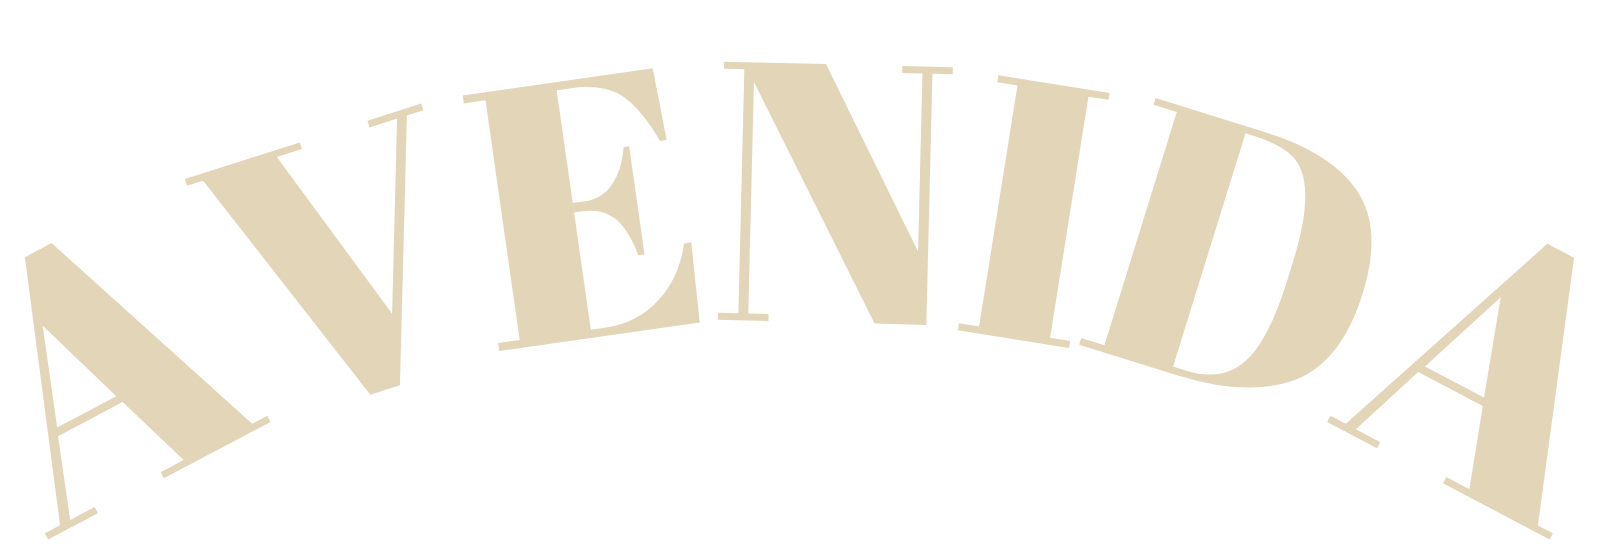
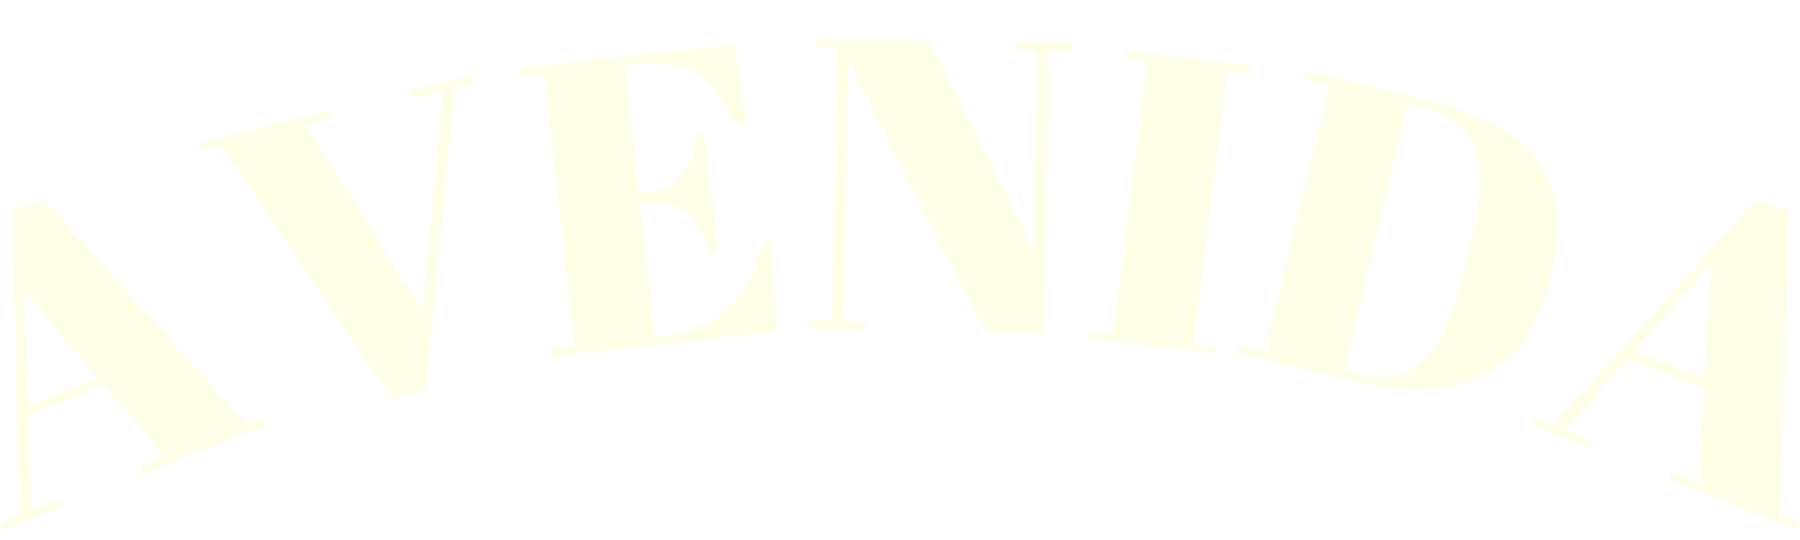
muitas alterações..

diff --git a/front/src/Login.tsx b/front/src/Login.tsx
@@ -1,6 +1,5 @@
 import { useForm } from "react-hook-form"
 import { useNavigate } from "react-router-dom";
-
 import { toast } from "sonner"
 import { useClienteStore } from "./context/ClienteContext"
 
@@ -10,54 +9,83 @@ type Inputs = {
     manter: boolean
 }
 
+const apiUrl = import.meta.env.VITE_API_URL
+
+
 export default function Login() {
     const { register, handleSubmit } = useForm<Inputs>()
     const { logaCliente } = useClienteStore()
 
     const navigate = useNavigate()
 
+    async function verificaLogin(data: Inputs) {
+        const response= await 
+        fetch(`${apiUrl}/clientes/login`, {
+            headers: {"Content-Type": "application/json"},
+            method: "POST",
+            body: JSON.stringify({ email: data.email, senha: data.senha })
+        })
+
+        if (response.status == 200) {
+            toast.success("Ok!")
+            const dados = await response.json()
+            logaCliente(dados)
+            if (data.manter) {
+                localStorage.setItem("clienteKey", dados.id)
+            } else {
+                if (localStorage.getItem("clienteKey")) {
+                    localStorage.removeItem("clienteKey")
+                }
+            }
+
+            navigate("/")
+        } else {
+            toast.error("Login ou senha incorretos")
+        }
+    }
+
     return (
         <>
-        <section className="bg-gray-50 dark:bg-gray-900">
-            <p style={{ height: 48 }}></p>
-            <div className="flex flex-col items-center px-6 py-8 mx-auto md:h-screen lg:py-0">
-                <div className="w-full bg-white rounded-lg shadow dark:border md:mt-0 sm:max-w-md xl:p-0 dark:bg-gray-800 dark:border-gray-700">
+        <section className="bg-[#FFFFE7] dark:bg-[#C33941]">
+            <p style={{ height: 110 }}></p>
+            <div className="flex flex-col items-center md:h-screen">
+                <div className="w-full flex flex-col items- rounded-lg  dark:border md:mt-0 sm:max-w-md xl:p-0 dark:bg-gray-800 dark:border-gray-700">
                     <div className="p-6 space-y-4 md:space-y-6 sm:p-8">
-                        <h1 className="text-xl font-bold leading-tight tracking-tight text-gray-900 md:text-2xl dark:text-white">
-                            Dados de Acesso do Cliente
+                        <h1 className="font-serif text-[#C33941] text-5xl">
+                            log in
                         </h1>
                         <form className="space-y-4 md:space-y-6" 
-                           onSubmit={handleSubmit()} >
+                           onSubmit={handleSubmit(verificaLogin)} >
                             <div>
-                                <label htmlFor="email" className="block mb-2 text-sm font-medium text-gray-900 dark:text-white">Seu e-mail</label>
+                                <label htmlFor="email" className="block mb-2 text-sm font-medium text-[#C33941] dark:text-white pl-2">e-mail</label>
                                 <input type="email" id="email" 
-                                       className="bg-gray-50 border border-gray-300 text-gray-900 rounded-lg focus:ring-primary-600 focus:border-primary-600 block w-full p-2.5 dark:bg-gray-700 dark:border-gray-600 dark:placeholder-gray-400 dark:text-white dark:focus:ring-blue-500 dark:focus:border-blue-500" 
+                                       className="bg-[#FFFFE7] border border-[#C33941] text-gray-900 rounded-lg focus:ring-primary-600 focus:border-primary-600 block w-full p-2.5 dark:bg-gray-700 dark:border-gray-600 dark:placeholder-gray-400 dark:text-white dark:focus:ring-blue-500 dark:focus:border-blue-500" 
                                        required 
                                        {...register("email")} />
                             </div>
                             <div>
-                                <label htmlFor="password" className="block mb-2 text-sm font-medium text-gray-900 dark:text-white">Senha de Acesso</label>
+                                <label htmlFor="password" className="block mb-2 text-sm font-medium text-[#C33941]  dark:text-white pl-2">senha</label>
                                 <input type="password" id="password" 
-                                       className="bg-gray-50 border border-gray-300 text-gray-900 rounded-lg focus:ring-primary-600 focus:border-primary-600 block w-full p-2.5 dark:bg-gray-700 dark:border-gray-600 dark:placeholder-gray-400 dark:text-white dark:focus:ring-blue-500 dark:focus:border-blue-500" 
+                                       className="bg-[#FFFFE7] border border-[#C33941] text-gray-900 rounded-lg focus:ring-primary-600 focus:border-primary-600 block w-full p-2.5 dark:bg-gray-700 dark:border-gray-600 dark:placeholder-gray-400 dark:text-white dark:focus:ring-blue-500 dark:focus:border-blue-500" 
                                        required 
                                        {...register("senha")} />
                             </div>
-                            <div className="flex items-center justify-between">
-                                <div className="flex items-start">
+                            <div className="flex items-center justify-between pl-2">
+                                <div className="flex items-start ">
                                     <div className="flex items-center h-5">
                                         <input id="remember" 
                                                aria-describedby="remember" type="checkbox" 
-                                               className="w-4 h-4 border border-gray-300 rounded bg-gray-50 focus:ring-3 focus:ring-primary-300 dark:bg-gray-700 dark:border-gray-600 dark:focus:ring-primary-600 dark:ring-offset-gray-800" 
+                                               className="w-4 h-4 border border-[#C33941] rounded bg-[#FFFFE7] focus:ring-3 focus:ring-primary-300 dark:bg-gray-700 dark:border-gray-600 dark:focus:ring-primary-600 dark:ring-offset-gray-800 cursor-pointer" 
                                                {...register("manter")} />
                                     </div>
                                     <div className="ml-3 text-sm">
-                                        <label htmlFor="remember" className="text-gray-500 dark:text-gray-300">Manter Conectado</label>
+                                        <label htmlFor="remember" className="text-gray-500 dark:text-gray-300">manter conectada :)</label>
                                     </div>
                                 </div>
-                                <a href="#" className="text-sm font-medium text-primary-600 hover:underline dark:text-primary-500">Esqueceu sua senha?</a>
+                                <a href="#" className="text-sm font-medium text-[#C33941] hover:underline dark:text-primary-500">esqueceu sua senha? :(</a>
                             </div>
-                            <button type="submit" className="w-full text-white bg-orange-600 hover:bg-orange-700 focus:ring-4 focus:outline-none focus:ring-orange-300 font-medium rounded-lg text-sm px-5 py-2.5 text-center dark:bg-blue-600 dark:hover:bg-blue-700 dark:focus:ring-blue-800">
-                                Entrar
+                            <button type="submit" className="w-full text-[#FFFFE7] bg-[#C33941] hover:bg-[#FFFFE7] hover:text-[#C33941] border border-[#C33941] focus:ring-4 focus:outline-none focus:ring-orange-300 font-medium rounded-lg text-sm px-5 py-2.5 text-center dark:bg-blue-600 dark:hover:bg-blue-700 dark:focus:ring-blue-800 cursor-pointer">
+                                entrar
                             </button>
                             <p className="text-sm font-light text-gray-500 dark:text-gray-400">
                                 Ainda não possui conta? <a href="#" className="font-medium text-primary-600 hover:underline dark:text-primary-500">Cadastre-se</a>

diff --git a/front/src/components/Titulo.tsx b/front/src/components/Titulo.tsx
@@ -8,7 +8,7 @@ type TituloProps = {
 export default function Titulo({ setProdutos }: TituloProps) {
     return (
         <>
-            <div className="navbar shadow-sm px-30 bg-[#E3D5B8] fixed top-0 left-0 w-full h-16 z-50">
+            <div className="navbar shadow-sm px-30 bg-[#FFFFE7] fixed top-0 left-0 w-full h-16 z-50">
 
                 <div className="navbar-start">
                     {/* <a href="#categorias" className="font-sans font-normal text-sm lowercase tracking-wider px-3 text-[#C33941] hover:underline">Categorias</a>
@@ -23,7 +23,7 @@ export default function Titulo({ setProdutos }: TituloProps) {
                     {/* <InputPesquisa setProdutos={setProdutos} />  */}
 
                     <div className="dropdown dropdown-end">
-                        <Link to="/favoritos" className="btn btn-circle bg-[#E3D5B8] border-[#E3D5B8] text-[#C33941] hover:bg-[#C33941] hover:text-[#E3D5B8] mb-1 ml-4">
+                        <Link to="/favoritos" className="btn btn-circle bg-[#FFFFE7] border-[#FFFFE7] text-[#C33941] hover:bg-[#C33941] hover:text-[#FFFFE7] mb-1 ml-4">
                             <div className="indicator">
                                 <svg xmlns="http://www.w3.org/2000/svg" fill="none" viewBox="0 0 24 24" stroke-width="1.5" stroke="currentColor" className="size-6">
                                     <path stroke-linecap="round" stroke-linejoin="round" d="M21 8.25c0-2.485-2.099-4.5-4.688-4.5-1.935 0-3.597 1.126-4.312 2.733-.715-1.607-2.377-2.733-4.313-2.733C5.1 3.75 3 5.765 3 8.25c0 7.22 9 12 9 12s9-4.78 9-12Z" />
@@ -32,7 +32,7 @@ export default function Titulo({ setProdutos }: TituloProps) {
                             </div>
                         </Link>
 
-                        <div tabIndex={0} role="button" className="btn btn-circle bg-[#E3D5B8] border-[#E3D5B8] text-[#C33941] hover:bg-[#C33941] hover:text-[#E3D5B8] mx-2 mb-1">
+                        <div tabIndex={0} role="button" className="btn btn-circle bg-[#FFFFE7] border-[#FFFFE7] text-[#C33941] hover:bg-[#C33941] hover:text-[#FFFFE7] mx-2 mb-1">
                             <div className="indicator">
                                 <svg xmlns="http://www.w3.org/2000/svg" fill="none" viewBox="0 0 24 24" stroke-width="1.5" stroke="currentColor" className="size-6">
                                     <path stroke-linecap="round" stroke-linejoin="round" d="M15.75 6a3.75 3.75 0 1 1-7.5 0 3.75 3.75 0 0 1 7.5 0ZM4.501 20.118a7.5 7.5 0 0 1 14.998 0A17.933 17.933 0 0 1 12 21.75c-2.676 0-5.216-.584-7.499-1.632Z" />

diff --git a/front/src/Inclusao.tsx b/front/src/Inclusao.tsx
@@ -1,6 +1,6 @@
 export default function Inclusao() {
     return (
-        <div className="bg-[#E3D5B8] h-screen px-33 py-25  flex">
+        <div className="bg-[#FFFFE7] h-screen px-33 py-25  flex">
 
             <h1 className="font-serif text-[#C33941] text-5xl w-30 ">novo produto</h1>
 
@@ -64,7 +64,7 @@ export default function Inclusao() {
                     <label htmlFor="" className="peer-focus:font-medium absolute text-sm text-[#C33941] dark:text-[#C33941] duration-300 transform -translate-y-6 scale-75 top-3 -z-10 origin-[0] peer-focus:start-0 rtl:peer-focus:translate-x-1/4 rtl:peer-focus:left-auto peer-focus:text-[#D7A278] peer-focus:dark:text-[#C33941] peer-placeholder-shown:scale-100 peer-placeholder-shown:translate-y-0 peer-focus:scale-75 peer-focus:-translate-y-6">Foto (URL)</label>
                 </div>
 
-                <button type="submit" className="text-[#C33941] bg-[#D7A278] hover:bg-[#C33941] hover:text-[#D7A278] border focus:ring-4 focus:outline-none focus:ring-[#D7A278] font-medium rounded-lg text-m w-full sm:w-auto px-7 py-2 text-center dark:bg-blue-600 dark:hover:bg-blue-700 dark:focus:ring-blue-800">Enviar</button>
+                <button type="submit" className="text-[#FFFFE7] bg-[#D7A278] hover:bg-[#C33941] hover:text-[#D7A278] border border-[#C33941] focus:ring-4 focus:outline-none focus:ring-[#D7A278] font-medium rounded-lg text-m w-full sm:w-auto px-7 py-2 text-center dark:bg-blue-600 dark:hover:bg-blue-700 dark:focus:ring-blue-800">Enviar</button>
             </form>
 
             <div className="w-27"></div>

diff --git a/front/src/App.tsx b/front/src/App.tsx
@@ -11,7 +11,6 @@ const ClienteContext = createContext({
   logaCliente: (dados: any) => {},
 });
 
-// Hook de espaço reservado para usar o contexto do cliente
 const useClienteStore = () => useContext(ClienteContext);
 
 export default function App() {
@@ -74,13 +73,11 @@ export default function App() {
     <ClienteContext.Provider value={{ logaCliente: () => {} }}>
       <Titulo setProdutos={setProdutos} />
 
-      {/* Banner inicial */}
       <section className="bg-[#C33941] h-140 px-50 pt-15 flex flex-col justify-center items-center">
         <img src="/avenida.png" alt="Avenida" className="w-50 " />
         <img src="/fashion.png" alt="Fashion" className="w-150 " />
       </section>
 
-      {/* Carrossel de tipos */}
       <section
         id="tipos"
         className="h-145 w-full bg-[url('/background2.png')] bg-cover bg-center px-30 py-10"
@@ -143,7 +140,6 @@ export default function App() {
             </div>
           </div>
 
-          {/* Botões */}
           <button
             onClick={scrollLeft}
             className="absolute right-265 top-40 btn btn-circle btn-ghost text-[#C33941]"
@@ -159,8 +155,7 @@ export default function App() {
         </div>
       </section>
 
-      {/* Próxima seção */}
-      <div className="bg-[#E3D5B8] h-full px-33 py-23 ">
+      <div className="bg-[#FFFFE7] h-full px-33 py-23 ">
         <h1 className="font-serif text-[#C33941] text-6xl w-30 flex justify-end">new in</h1>
         <div className="grid grid-cols-1 sm:grid-cols-2 md:grid-cols-3 gap-8 mt-8">
           {listaProdutos}

diff --git a/front/src/components/CardProduto.tsx b/front/src/components/CardProduto.tsx
@@ -1,4 +1,3 @@
-import { useState } from "react";
 import type { ProdutoType } from "../utils/ProdutoType";
 
 export function CardProduto({ data }: { data: ProdutoType }) {
@@ -12,7 +11,7 @@ export function CardProduto({ data }: { data: ProdutoType }) {
     }
 
     return (
-        <div className="card bg-[#E3D5B8] border border-[#C33941] w-75 shadow-[#C33941]">
+        <div className="card bg-[#FFFFE7] border border-[#C33941] w-75 shadow-[#C33941]">
             <figure className="px-5 pt-5">
                 <img
                     src={data.foto}
@@ -38,7 +37,7 @@ export function CardProduto({ data }: { data: ProdutoType }) {
                             </div>
                         )}
                     </div>
-                    <div className="btn btn-circle bg-[#E3D5B8] border-[#E3D5B8] text-[#C33941] hover:bg-[#C33941] hover:text-[#E3D5B8] pt-4">
+                    <div className="btn btn-circle bg-[#FFFFE7] border-[#FFFFE7] text-[#C33941] hover:bg-[#C33941] hover:text-[#FFFFE7] pt-4">
                         <svg xmlns="http://www.w3.org/2000/svg" fill="none" viewBox="0 0 24 24" strokeWidth="1.5" stroke="currentColor" className="size-6">
                             <path strokeLinecap="round" strokeLinejoin="round" d="M21 8.25c0-2.485-2.099-4.5-4.688-4.5-1.935 0-3.597 1.126-4.312 2.733-.715-1.607-2.377-2.733-4.313-2.733C5.1 3.75 3 5.765 3 8.25c0 7.22 9 12 9 12s9-4.78 9-12Z" />
                         </svg>

diff --git a/front/src/components/InputPesquisa.tsx b/front/src/components/InputPesquisa.tsx
@@ -55,7 +55,7 @@ return (
             type="search"
             placeholder="Pesquisar"
             {...register("termo")}
-            className="pl-10 pr-4 h-8 w-64 border rounded-full border-[#C33941] font-sans text-sm text-[#C33941] placeholder:text[##C33941] focus:ring-[#C33941] focus:border-[#C33941]"
+            className="pl-10 pr-4 h-8 w-64 border rounded-full border-[#C33941] font-sans text-sm text-[#C33941] placeholder:text[#C33941] focus:ring-[#C33941] focus:border-[#C33941]"
         />
     </form>
 );
